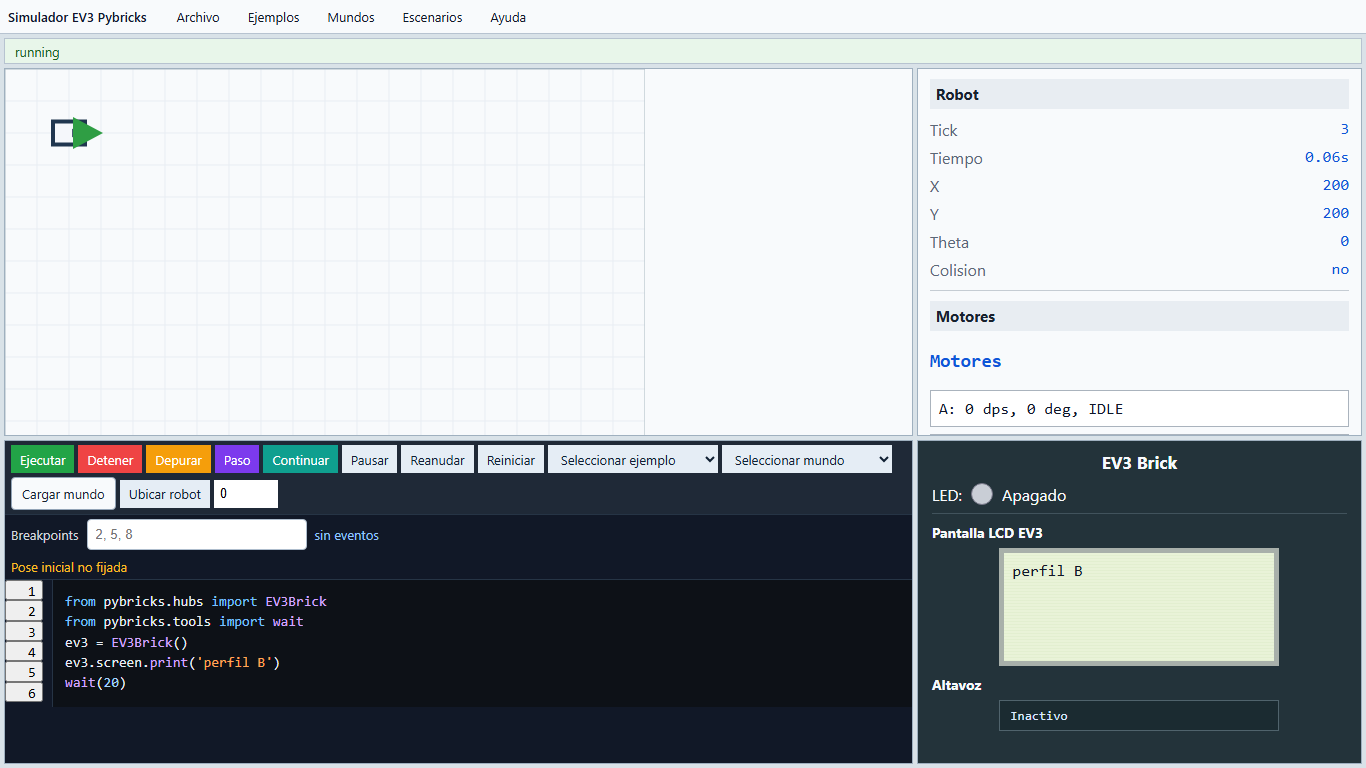
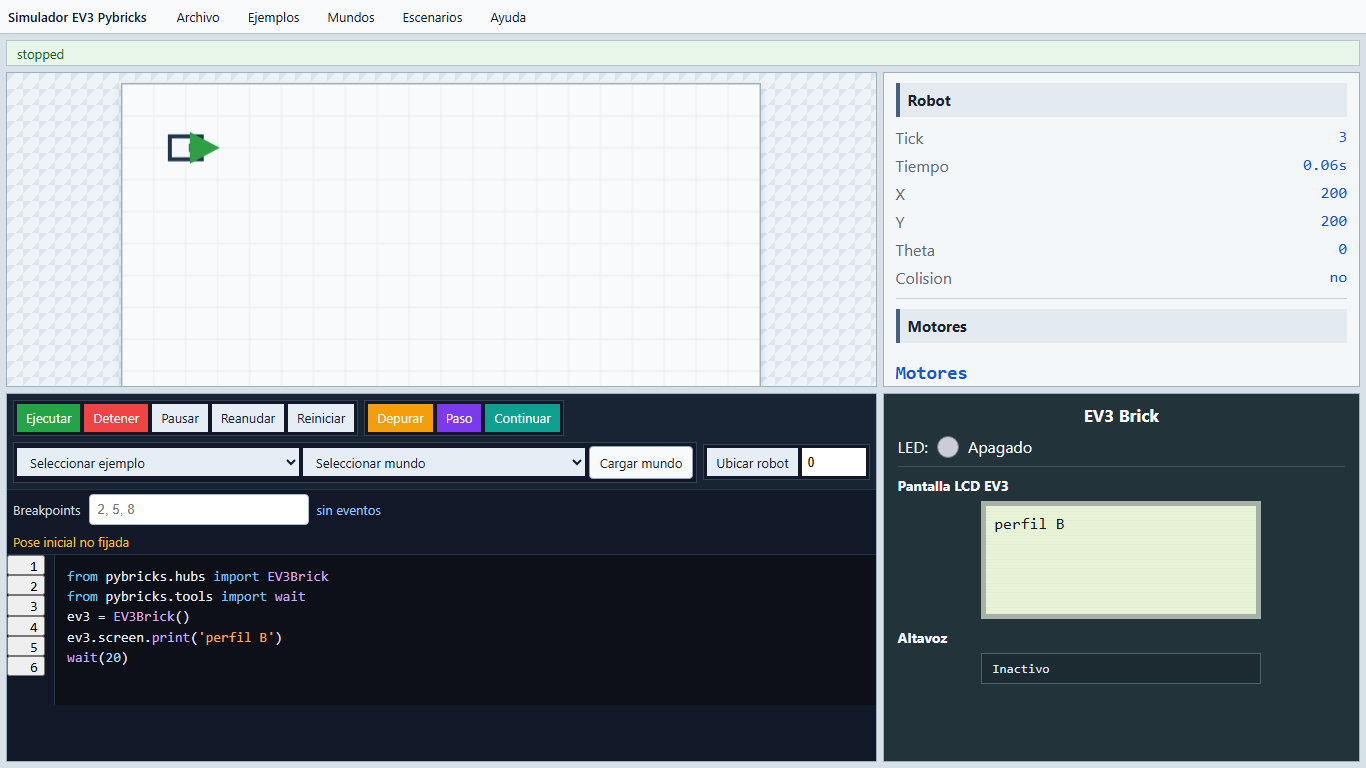
ui: mejorar distribucion web

Changed region(s): [[0.0, 0.0625, 1.0, 1.0], [0.7379, 0.9062, 0.7994, 0.9375], [0.123, 0.1562, 0.1537, 0.2188]]

diff --git a/simulador_ev3/web/static/css/app.css b/simulador_ev3/web/static/css/app.css
@@ -400,11 +400,11 @@ dd {
   min-height: 0;
   height: 100%;
   display: grid;
-  grid-template-columns: minmax(0, 2fr) minmax(320px, 0.98fr);
-  grid-template-rows: 26px minmax(0, 1fr) minmax(250px, 0.88fr);
-  gap: 4px;
-  padding: 4px;
-  background: #d9e2e8;
+  grid-template-columns: minmax(660px, 1.55fr) minmax(340px, 0.85fr);
+  grid-template-rows: 26px minmax(0, 0.92fr) minmax(300px, 1.08fr);
+  gap: 6px;
+  padding: 6px;
+  background: #d8e1e8;
   overflow: hidden;
 }
 
@@ -433,33 +433,43 @@ dd {
 
 .sim-map-pane,
 .world-canvas-pane {
+  display: grid;
   overflow: auto;
+  padding: 10px;
+  background:
+    linear-gradient(135deg, rgba(148, 163, 184, 0.18) 25%, transparent 25%) 0 0 / 16px 16px,
+    linear-gradient(135deg, transparent 75%, rgba(148, 163, 184, 0.18) 75%) 0 0 / 16px 16px,
+    #edf3f7;
 }
 
 .sim-map-pane #worldCanvas,
 .world-canvas-pane #worldCanvas {
-  width: 100%;
-  height: 100%;
+  width: auto;
+  height: auto;
   min-height: 0;
   display: block;
+  border: 1px solid #9fb0bf;
+  background: #fff;
+  box-shadow: 0 2px 8px rgba(15, 23, 42, 0.12);
 }
 
 .sim-telemetry-pane {
   overflow: auto;
   padding: 10px 12px;
-  background: #f8fafc;
+  background: #f4f7fa;
 }
 
 .telemetry-section {
-  padding-bottom: 10px;
+  padding: 0 0 10px;
   margin-bottom: 10px;
   border-bottom: 1px solid #c5ccd3;
 }
 
 .telemetry-section h2 {
   margin: 0 0 10px;
-  padding: 5px 6px;
-  background: #e8edf2;
+  padding: 7px 8px;
+  background: #e3eaf0;
+  border-left: 4px solid #44627e;
   font-size: 15px;
 }
 
@@ -493,12 +503,22 @@ dd {
 
 .sim-control-bar {
   display: flex;
-  gap: 4px;
+  gap: 6px;
   align-items: center;
   flex-wrap: wrap;
-  padding: 4px 6px;
+  padding: 6px;
   border-bottom: 1px solid #263445;
-  background: #1f2937;
+  background: #182433;
+}
+
+.sim-control-group {
+  display: flex;
+  align-items: center;
+  gap: 4px;
+  flex-wrap: wrap;
+  padding: 3px;
+  border: 1px solid #344256;
+  background: #111827;
 }
 
 .sim-control-bar button,
@@ -514,7 +534,19 @@ dd {
 }
 
 .sim-control-bar select {
-  max-width: 170px;
+  width: 170px;
+}
+
+.sim-control-bar .load-controls {
+  flex: 1 1 380px;
+}
+
+.sim-control-bar .load-controls select {
+  flex: 1 1 150px;
+}
+
+.sim-control-bar .pose-controls {
+  margin-left: auto;
 }
 
 .sim-control-bar .theta-input {
@@ -552,6 +584,8 @@ dd {
 }
 
 .sim-code-pane .debug-panel {
+  position: relative;
+  z-index: 2;
   grid-template-columns: auto minmax(120px, 220px) 1fr;
   padding: 4px 6px;
   border: 0;
@@ -576,6 +610,7 @@ dd {
 
 .code-editor-shell {
   position: relative;
+  z-index: 4;
   min-height: 0;
   display: grid;
   grid-template-columns: 48px minmax(0, 1fr);
@@ -680,11 +715,11 @@ dd {
 
 .autocomplete-popup {
   position: absolute;
-  z-index: 30;
+  z-index: 100;
   left: 54px;
-  bottom: 14px;
+  top: 10px;
   width: 230px;
-  max-height: 172px;
+  max-height: min(172px, calc(100% - 20px));
   overflow: auto;
   border: 1px solid #3b82f6;
   background: #0f172a;
@@ -783,9 +818,9 @@ dd {
   min-height: 0;
   display: grid;
   grid-template-rows: auto auto minmax(0, 1fr) auto minmax(0, auto);
-  gap: 3px;
-  padding: 5px;
-  background: #dfe6eb;
+  gap: 6px;
+  padding: 6px;
+  background: #d8e1e8;
 }
 
 .world-editor-toolbar,
@@ -794,6 +829,9 @@ dd {
   align-items: center;
   gap: 6px;
   flex-wrap: wrap;
+  padding: 6px;
+  border: 1px solid #a8b5c0;
+  background: #edf3f7;
 }
 
 .world-editor-toolbar button,
@@ -809,7 +847,7 @@ dd {
 }
 
 .world-editor-toolbar select {
-  max-width: 210px;
+  width: min(240px, 100%);
 }
 
 .toolbar-separator {
@@ -824,16 +862,19 @@ dd {
   gap: 4px;
   align-items: center;
   flex-wrap: wrap;
+  flex: 1 1 520px;
 }
 
 .asset-tool {
-  width: 38px;
-  height: 38px;
+  width: 36px;
+  height: 36px;
   display: inline-grid;
   place-items: center;
   padding: 2px !important;
   font-size: 11px;
   font-weight: 600;
+  border-color: #8ea0b0 !important;
+  background: #fff !important;
 }
 
 .asset-tool img {
@@ -858,25 +899,28 @@ dd {
 .world-editor-main {
   min-height: 0;
   display: grid;
-  grid-template-columns: minmax(0, 1fr) 300px;
-  gap: 5px;
+  grid-template-columns: minmax(660px, 1fr) 300px;
+  gap: 6px;
 }
 
 .properties-pane {
   overflow: auto;
-  padding: 8px;
-  background: #edf1f5;
+  padding: 10px;
+  background: #f4f7fa;
 }
 
 .properties-pane h2 {
-  margin: 0 0 8px;
+  margin: 0 0 10px;
+  padding: 7px 8px;
+  background: #e3eaf0;
+  border-left: 4px solid #44627e;
   font-size: 14px;
 }
 
 .properties-pane .selection-readout {
   border-radius: 0;
   background: transparent;
-  padding: 4px 0 10px;
+  padding: 2px 0 12px;
   font-weight: 600;
 }
 
@@ -916,7 +960,7 @@ dd {
   grid-column: 1 / -1;
   min-height: 28px;
   border: 1px solid #8a9bab;
-  background: #f8fafc;
+  background: #e8eff5;
   cursor: pointer;
 }
 
@@ -924,7 +968,7 @@ dd {
   display: flex;
   justify-content: space-between;
   gap: 12px;
-  padding: 5px 6px;
+  padding: 6px 8px;
   border: 1px solid #b7c3d0;
   background: #d7e1e7;
   font-size: 13px;

diff --git a/simulador_ev3/web/templates/index.html b/simulador_ev3/web/templates/index.html
@@ -71,19 +71,27 @@
 
     <section class="sim-code-pane">
       <div class="sim-control-bar">
-        <button id="runBtn" class="run-button">Ejecutar</button>
-        <button id="stopBtn" class="stop-button">Detener</button>
-        <button id="debugRunBtn" class="debug-button">Depurar</button>
-        <button id="debugStepBtn" class="step-button">Paso</button>
-        <button id="debugContinueBtn" class="continue-button">Continuar</button>
-        <button id="pauseBtn">Pausar</button>
-        <button id="resumeBtn">Reanudar</button>
-        <button id="resetBtn">Reiniciar</button>
-        <select id="exampleSelect" aria-label="Ejemplos"></select>
-        <select id="worldSelect" aria-label="Mundos"></select>
-        <button id="loadWorldBtn">Cargar mundo</button>
-        <button id="placeRobotStartBtn">Ubicar robot</button>
-        <input id="robotThetaInput" class="theta-input" type="number" value="0" step="15" aria-label="Theta robot">
+        <div class="sim-control-group run-controls">
+          <button id="runBtn" class="run-button">Ejecutar</button>
+          <button id="stopBtn" class="stop-button">Detener</button>
+          <button id="pauseBtn">Pausar</button>
+          <button id="resumeBtn">Reanudar</button>
+          <button id="resetBtn">Reiniciar</button>
+        </div>
+        <div class="sim-control-group debug-controls">
+          <button id="debugRunBtn" class="debug-button">Depurar</button>
+          <button id="debugStepBtn" class="step-button">Paso</button>
+          <button id="debugContinueBtn" class="continue-button">Continuar</button>
+        </div>
+        <div class="sim-control-group load-controls">
+          <select id="exampleSelect" aria-label="Ejemplos"></select>
+          <select id="worldSelect" aria-label="Mundos"></select>
+          <button id="loadWorldBtn">Cargar mundo</button>
+        </div>
+        <div class="sim-control-group pose-controls">
+          <button id="placeRobotStartBtn">Ubicar robot</button>
+          <input id="robotThetaInput" class="theta-input" type="number" value="0" step="15" aria-label="Theta robot">
+        </div>
       </div>
       <div class="debug-panel">
         <label for="breakpointsInput">Breakpoints</label>

diff --git a/simulador_ev3/web/templates/worlds.html b/simulador_ev3/web/templates/worlds.html
@@ -18,10 +18,10 @@
       <button id="saveWorldBtn">Guardar</button>
       <button id="exportWorldBtn">Guardar como</button>
       <span class="toolbar-separator"></span>
-      <button id="moveAssetBtn">Select</button>
-      <button id="deleteAssetBtn">Delete</button>
+      <button id="moveAssetBtn">Seleccionar</button>
+      <button id="deleteAssetBtn">Eliminar</button>
       <button id="rotateAssetBtn">Rotar</button>
-      <button id="duplicateAssetBtn">Duplicate</button>
+      <button id="duplicateAssetBtn">Duplicar</button>
       <button id="validateWorldBtn">Validar</button>
       <button id="applyWorldBtn">Aplicar</button>
       <span class="toolbar-separator"></span>
@@ -32,9 +32,9 @@
     </section>
 
     <section class="world-size-bar">
-      <label for="worldWidthInput">World W (cells):</label>
+      <label for="worldWidthInput">Ancho (celdas):</label>
       <input id="worldWidthInput" type="number" min="1" max="160" value="20">
-      <label for="worldHeightInput">World H (cells):</label>
+      <label for="worldHeightInput">Alto (celdas):</label>
       <input id="worldHeightInput" type="number" min="1" max="160" value="20">
       <button id="applyWorldSizeBtn">Aplicar tamano</button>
       <label for="robotThetaInput">Theta robot:</label>

diff --git a/simulador_ev3/web/static/js/canvas_world.js b/simulador_ev3/web/static/js/canvas_world.js
@@ -42,6 +42,11 @@ window.EV3Canvas = (() => {
     const cssHeight = `${heightPx}px`;
     if (canvas.style.width !== cssWidth) canvas.style.width = cssWidth;
     if (canvas.style.height !== cssHeight) canvas.style.height = cssHeight;
+    const pane = canvas.parentElement;
+    if (pane) {
+      pane.style.justifyContent = widthPx <= pane.clientWidth ? "center" : "start";
+      pane.style.alignContent = heightPx <= pane.clientHeight ? "center" : "start";
+    }
   }
 
   function worldView(world) {
